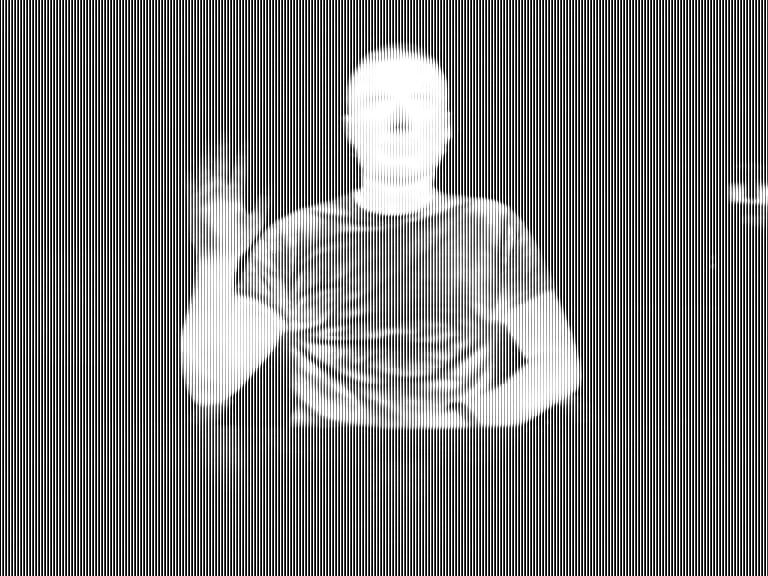
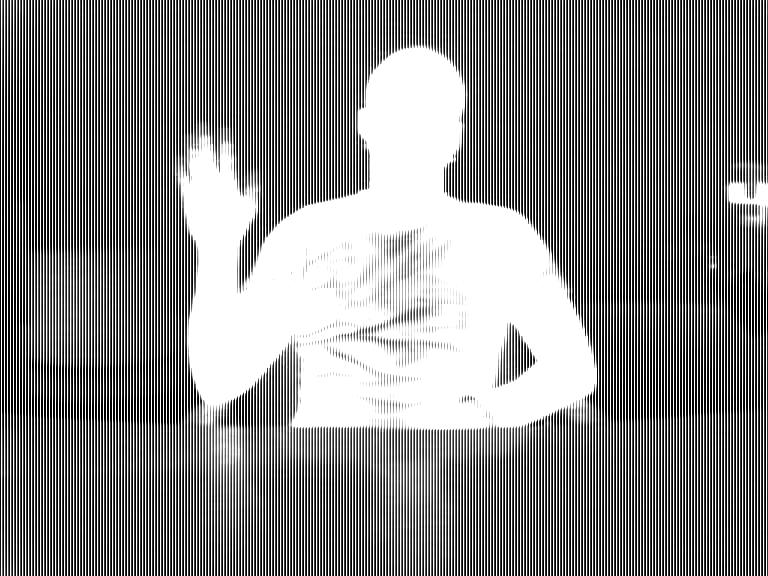
human condition added

Changed region(s): [[0.0, 0.0625, 1.0, 0.9688], [0.9375, 0.2812, 1.0, 0.4062], [0.0, 0.0, 0.0312, 0.0312]]

diff --git a/image processing/human_seg.py b/image processing/human_seg.py
@@ -85,11 +85,18 @@ def segment_histo(image_path, colour1, colour2):
     io.imsave('./images/' + image_path[9:17] + '_seg.jpg', final_seg_rgb)
     
     #derive heat level based on thermaml image, this will be the FLC input
-    controller_input = flc_input(image.mean())
-
-    print(image.min(), image.max())  
-    print(image.mean())
-    print(controller_input)
+    #this is happens only when human is detected, else the radiator power %
+    #is set to 0
+    human_threshold = -0.5681
+    if final_seg.max() > human_threshold:
+        controller_input = flc_input(image.mean())
+        print(controller_input)
+    else:
+        controller_input = 10
+        print(controller_input)
+        print('NO HUMAN DETECTED IN ROOM \nHEATING DEACTIVATED')
+        exit()
+        
     return human_seperation, final_seg, rgb_histo
 
 #excuting main function with detected image

diff --git a/fuzzyLogic/Juzzy/Project/Juzzy_V2_Source/src/radiatorFLC/thermalRadiatorFLC.java b/fuzzyLogic/Juzzy/Project/Juzzy_V2_Source/src/radiatorFLC/thermalRadiatorFLC.java
@@ -68,7 +68,7 @@ public class thermalRadiatorFLC
         radiatorPower.setDiscretisationLevel(50);        
         
         //get some outputs
-        getTemp(6.4);
+        getTemp(10);
         
         //plot some sets, discretizing each input into 100 steps.
         plotMFs("Heating Level Membership Functions", new T1MF_Interface[]{coldTempMF, normalTempMF, hotTempMF}, temperature.getDomain(), 100);
